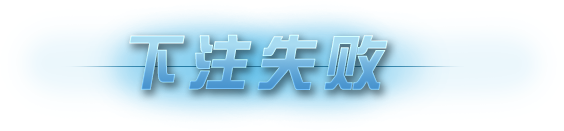
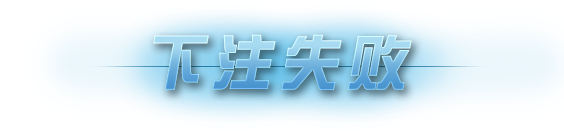
樣式微調

Changed region(s): [[0.1507, 0.2137, 0.844, 0.7939]]

diff --git a/h5_doublesided_ssc/static/css/style.css b/h5_doublesided_ssc/static/css/style.css
@@ -292,11 +292,11 @@ a { color: #00B7FF; }
 
 .so-tip-pop > div { background: url("../images/pop/popkuang2.png") no-repeat; background-size: 100%; width: 8.14rem; height: 4.53rem; position: relative; top: 25%; margin: auto; text-align: center; }
 
-.so-tip-pop img { width: 4rem; text-align: center; margin: auto; margin-top: 1rem; }
+.so-tip-pop img { width: 4rem; text-align: center; margin: auto; margin-top: 1.2rem; }
 
 .so-tip-pop img:nth-child(2) { max-width: .8rem; margin-top: 0; display: block; }
 
-.so-tip-pop p { color: #c93030; margin-top: 0.2rem; font-size: 0.34rem; }
+.so-tip-pop p { color: #c93030; margin-top: 0.25rem; font-size: 0.34rem; }
 
 .bet_ok_area p { color: #ffc600; line-height: 1.5em; }
 
@@ -328,9 +328,9 @@ img.bet_ok { position: absolute; width: 100%; top: 0; left: 0; z-index: 1; }
 
 .so-pop-xxx div h2 > a { content: ""; display: block; width: 1rem; height: 1rem; float: right; position: absolute; right: 0; top: 0; }
 
-.so-pop-xxx div img { width: 1rem; margin-top: 0.6rem; }
+.so-pop-xxx div img { width: 1rem; margin-top: 0.5rem; }
 
-.so-pop-xxx div p { display: block; width: 6rem; text-align: center; margin: auto; color: #c93030; font-size: 0.34rem; margin-top: 0.4rem; }
+.so-pop-xxx div p { display: block; width: 6rem; text-align: center; margin: auto; color: #c93030; font-size: 0.34rem; margin-top: 0.4rem; line-height: 1.5em; }
 
 .so-pop-xxx div > a { display: block; background: url("../images/pop/lan.png") no-repeat; background-size: 100%; width: 2.31rem; height: 0.74rem; text-align: center; margin: auto; margin-top: 0.3rem; line-height: 0.74rem; font-size: 0.34rem; color: white; }
 

diff --git a/h5_doublesided_ssc/static/scss_less/style.scss b/h5_doublesided_ssc/static/scss_less/style.scss
@@ -972,7 +972,7 @@ a {
         // top: 25%;
         text-align: center;
         margin: auto;
-        margin-top: 1rem;
+        margin-top: 1.2rem;
     }
     img:nth-child(2) {
         max-width: .8rem;
@@ -981,7 +981,7 @@ a {
     }
     p {
         color: #c93030;
-        margin-top: 0.2rem;
+        margin-top: 0.25rem;
         font-size: 0.34rem;
     }
 }
@@ -1101,7 +1101,7 @@ img.bet_ok {
         }
         img {
             width: 1rem;
-            margin-top: 0.6rem;
+            margin-top: 0.5rem;
         }
         p {
             display: block;
@@ -1111,6 +1111,7 @@ img.bet_ok {
             color: #c93030;
             font-size: 0.34rem;
             margin-top: 0.4rem;
+            line-height: 1.5em;
         }
         >a {
             display: block;

diff --git a/h5_doublesided_ssc/static/js/index.js b/h5_doublesided_ssc/static/js/index.js
@@ -97,7 +97,7 @@ function initLeftViewEve() {
     $(".so-left-close").click(function () {
         var className = $(".so-left").attr("class") || ""
         $(".so-left").attr("class", className.replace("active", "close"))
-        $(".so-shade").hide()
+        $(".so-shade").hide()//.fadeOut(2000)
     })
     $(".so-menu").click(function () {
         var className = $(".so-left").attr("class") || ""

diff --git a/h5_doublesided_ssc/static/css/page.css b/h5_doublesided_ssc/static/css/page.css
@@ -94,7 +94,7 @@ body { width: 100%; min-height: 18rem; }
 
 .tab .item.active a, .tab .item:hover a, .tab .item:focus a { color: #ccc; }
 
-.tab_mid { color: #d7e8f0; background-color: rgba(0, 0, 0, 0.4); }
+.tab_mid { color: #d7e8f0; background-color: rgba(0, 0, 0, 0.15); }
 
 .tab_mid > li { display: inline-block; width: 25%; text-align: center; vertical-align: middle; }
 

diff --git a/h5_doublesided_ssc/dialog.html b/h5_doublesided_ssc/dialog.html
@@ -47,7 +47,7 @@
             <div>
                 <h2>提示<a></a></h2>
                 <img src="static/images/page/status03.svg">
-                <p>非常抱歉，本彩种暂停销售请前往其他游戏</p>
+                <p>非常抱歉，本彩种暂停销售<br/>请前往其他游戏</p>
                 <a>确定</a>
             </div>
         </div>

diff --git a/h5_doublesided_ssc/static/scss_less/_bet_record.scss b/h5_doublesided_ssc/static/scss_less/_bet_record.scss
@@ -173,7 +173,7 @@ body{
 .tab_mid{
     // margin: .8rem 0;
     color: #d7e8f0;
-    background-color: rgba(0,0,0,.4);
+    background-color: rgba(0,0,0,.15);
     >li{
         display: inline-block;
         // padding: .5rem;
